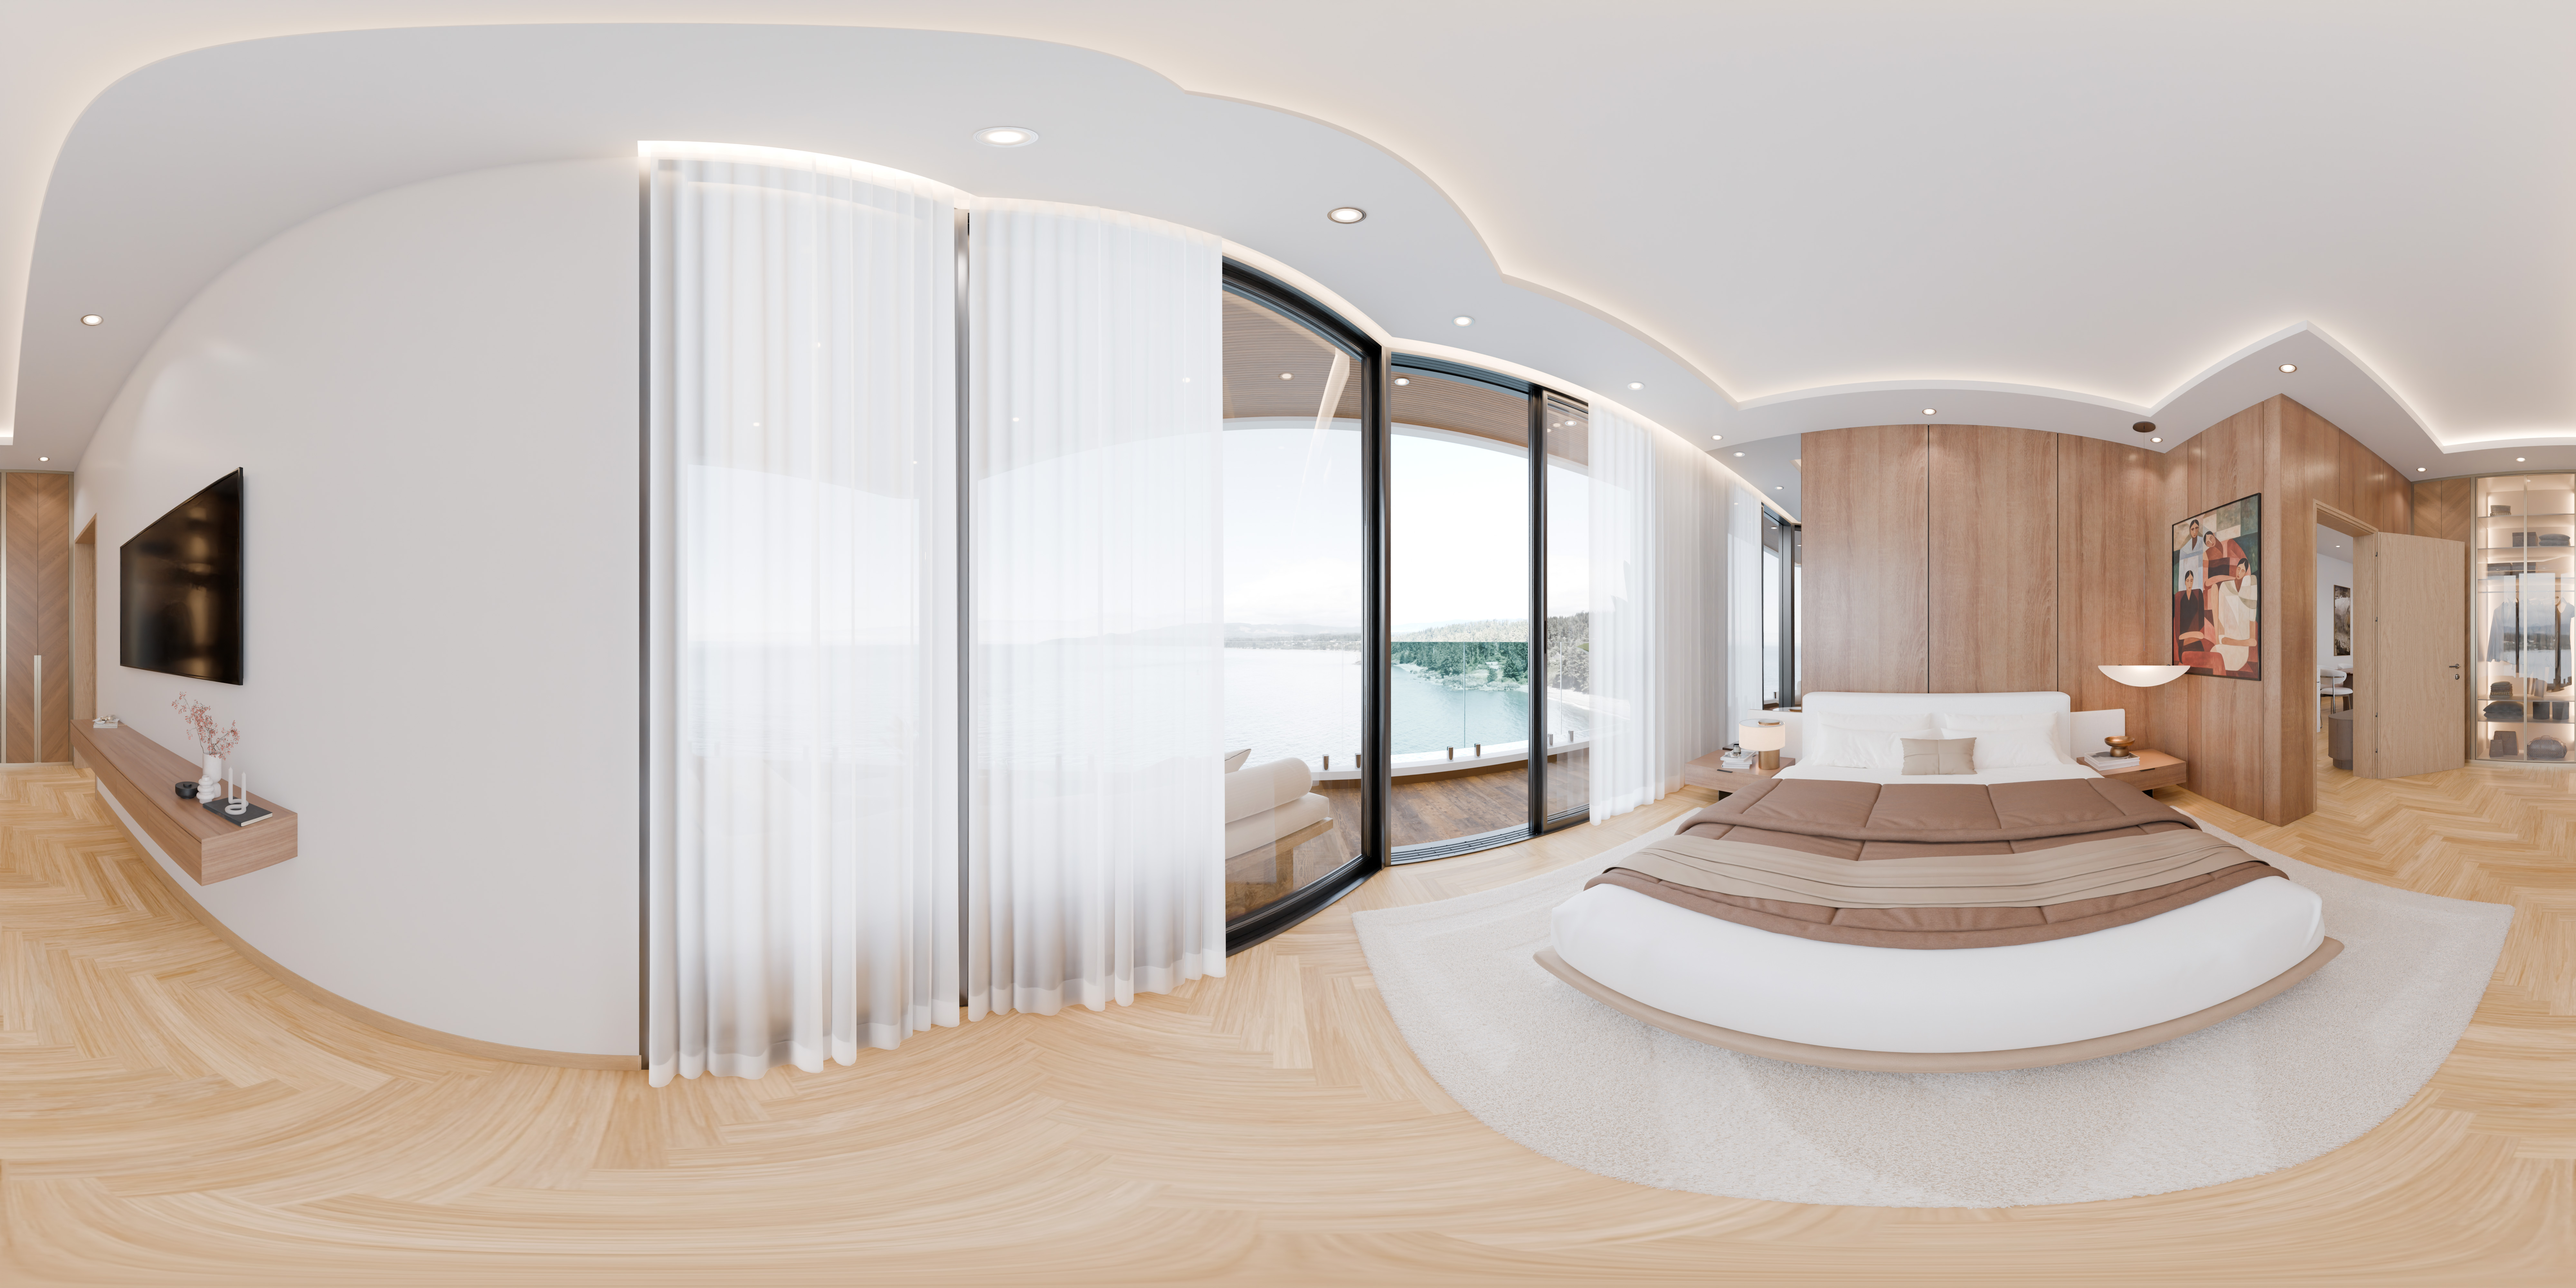
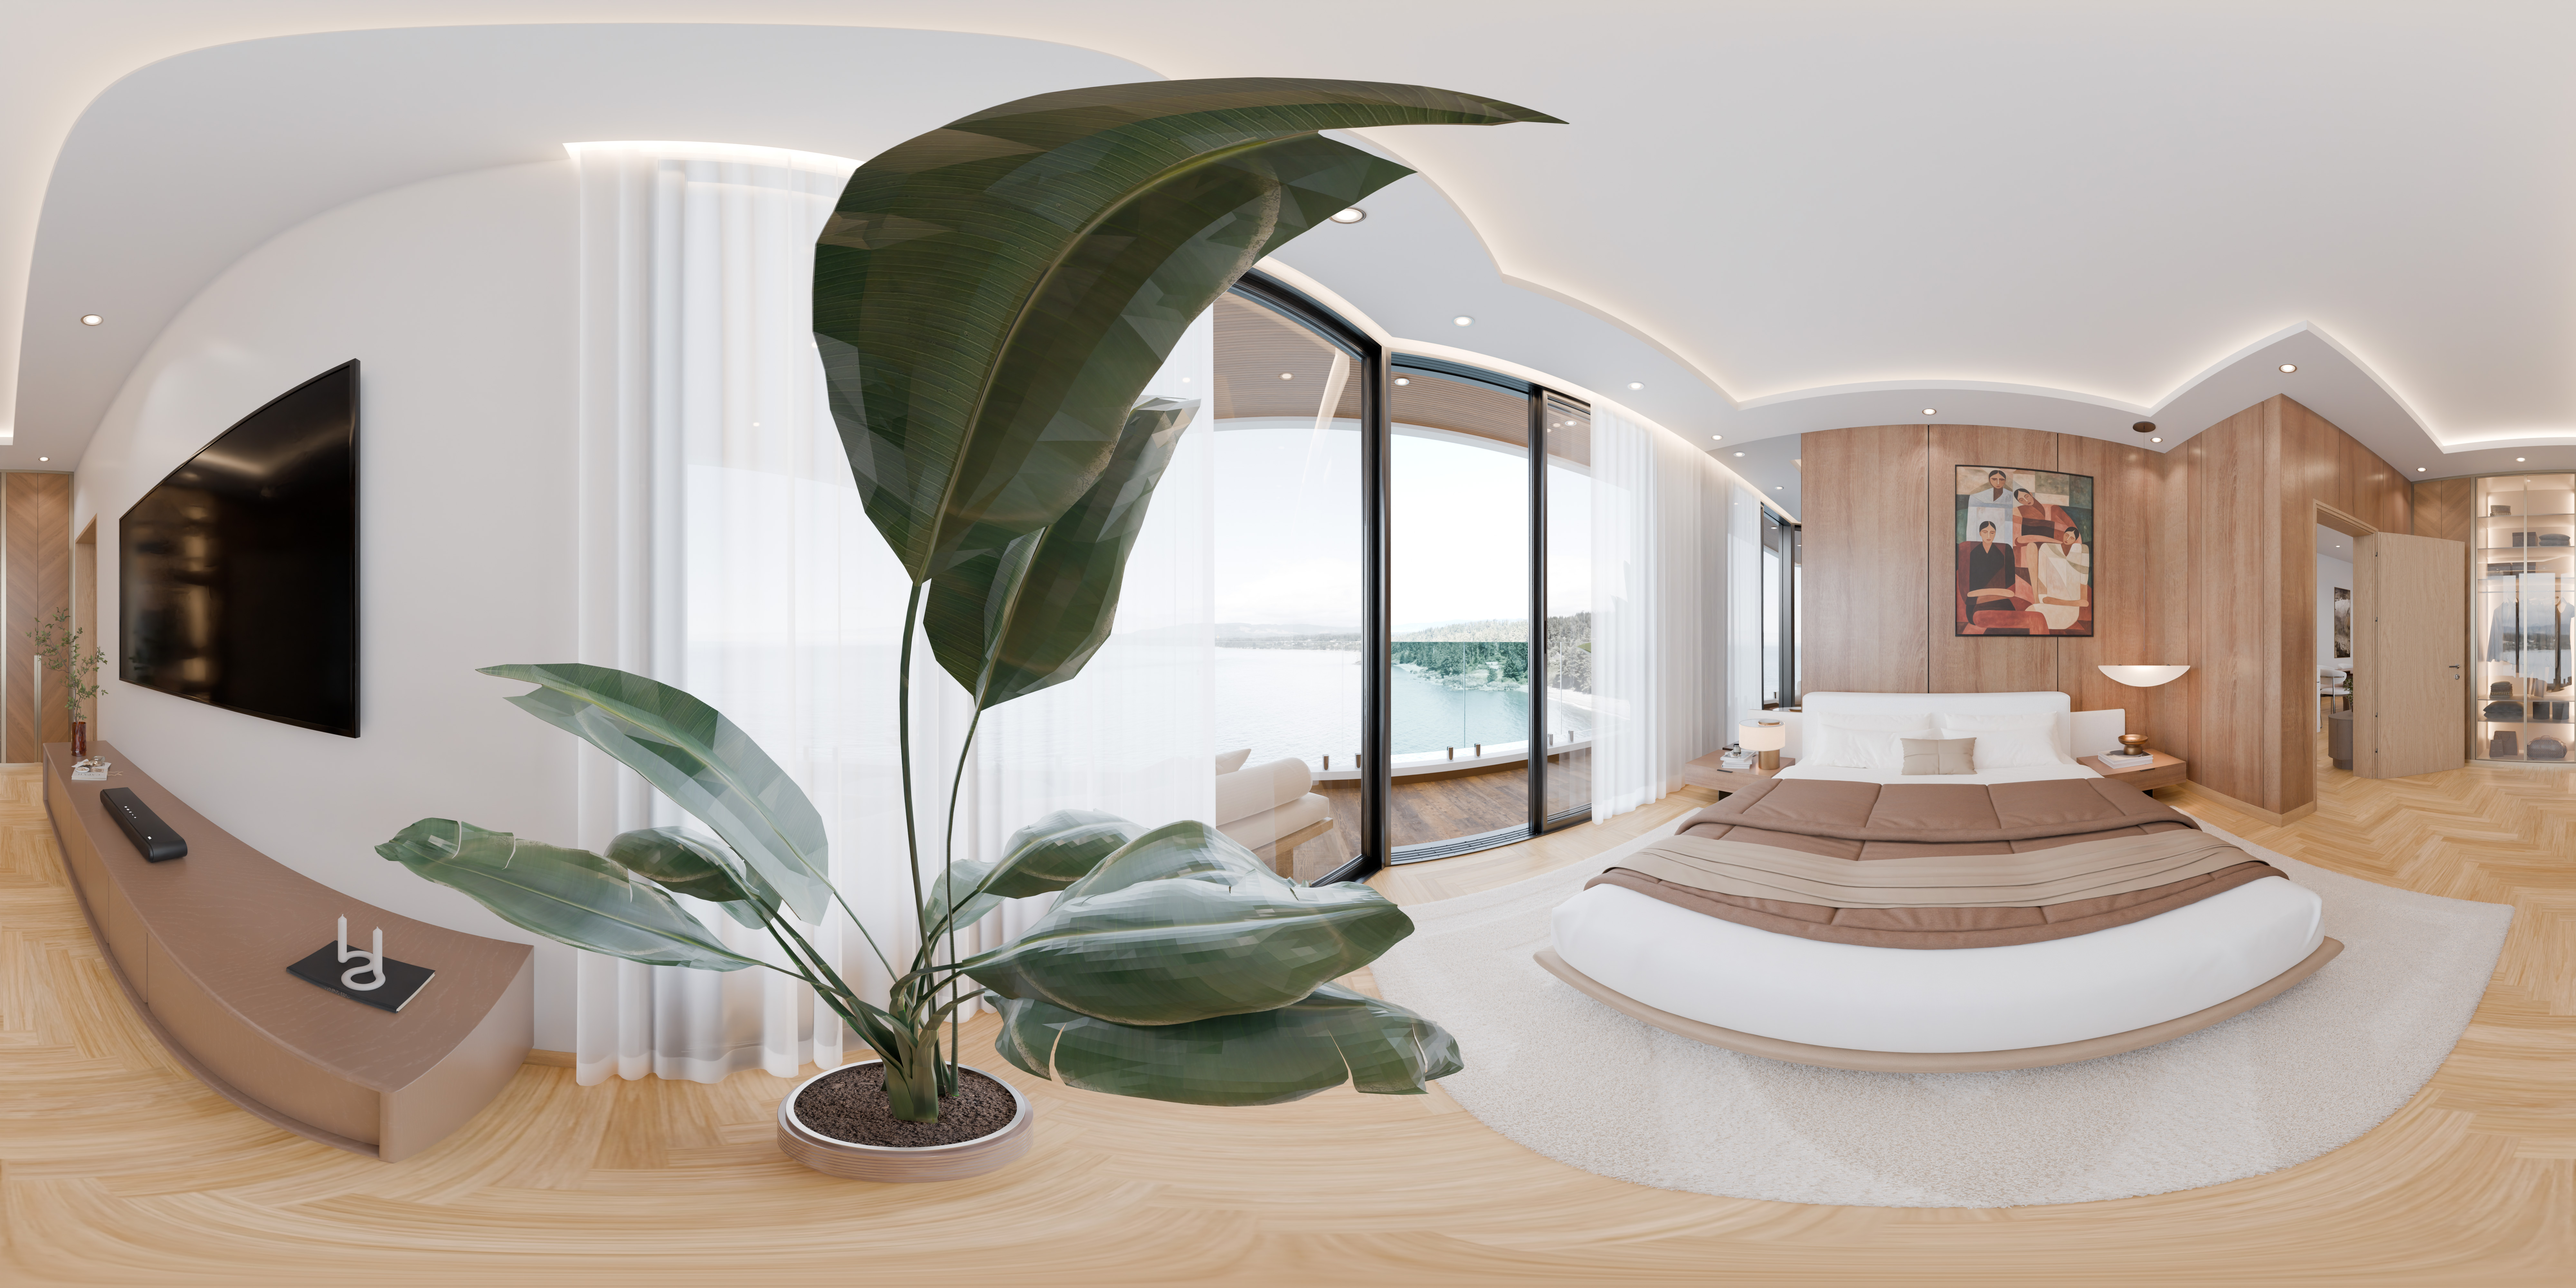
first commit-6

diff --git a/index.html b/index.html
@@ -1307,7 +1307,7 @@ position="2.597 -0.064 0.508"
         }
       };                                                                                                                                                                                                                                                                                                                                                                                                                                                                                                                                                                                                                                                                                                                                                                                                                                                                                                                                                                                                                                                                                                                                                                                                                                                                                                                                                                                                                                                                                                                                                                                                                                                                                                                                                                                                                                                                                                                                                                                                                                                                                                                                                                                                                                                                                                                                                                                                                                                                                                                                                                                                                                                                                                               
 
-      setStart(22);
+      setStart(1);
 
       AFRAME.registerComponent("the_dote", {
         schema: {
